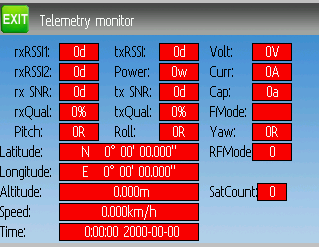
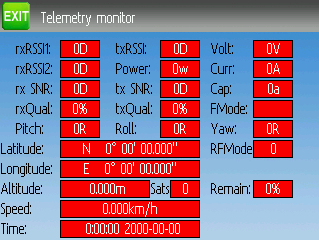
Update CRSF telemetry with newly added values.

Changed region(s): [[0.0, 0.0, 1.0, 1.0]]

diff --git a/source/ch_protocols.rst b/source/ch_protocols.rst
@@ -952,59 +952,17 @@ The serial data is not inverted so an adapter may be needed for some SBUS equipm
 Up to sixteen channels are supported.
 Data rate is 100kbps. Format is 8 data bits, even parity, two stop bits.
 
-Protocol: CRSF (Crossfire)
---------------------------
-The CRSF protocol sends Crossfire protocol serial data on the transmitter's trainer port (tip connector).  The trainer port ring is ground.  The CRSF protocol serial link runs at 400Kbps.
+Protocol: CRSF (Crossfire and ELRS)
+-----------------------------------
+The CRSF protocol sends serial data on the transmitter's trainer port (tip connector).  The trainer port ring is ground.
 On the T8SG PLUS transmitter the serial data also appears on the top pin in the JR module bay.
 To enable telemetry the serial input must be tied to serial output.  For the trainer port tie tip to ring1.
 In the T8SG module bay tie the top and bottom pins together.
 Up to sixteen channels are supported.
 
+The CRSF protocol default serial data rate at 400Kbps.  The data rate can be changed to 1.87 or 2.25 Mbps through a protocol option.  The higher rates are supported by ELRS.
+
 The CRSF configuration menus are supported and replace the normal protocol options.  Click on the protocol name to access the CRSF menus.  The exact menu options displayed will depend on the CRSF components installed.  The menu is controlled by the CRSF device.
-
-Telemetry is not available on limited memory transmitters (7e, F4, F12).
-
-*Telemetry test page*
-
-.. if:: devo8
-
-.. image:: images/devo8/ch_protocols/crsf_telem.png
-   :width: 80%
-
-The CELL voltages are labeled C1-C5.
-
-.. endif::
-.. if:: devo10
-
-The following tables show the layout of the telemetry test page display.
-
-.. cssclass:: telemtable
-
-======== ======= =========
-      Devo10
---------------------------
- RX       TX      Bat 
-======== ======= =========
-RxRSSI   TxRSSI  VBATT
-RSSI2    TxPOWER CURRENT
-RxSNR    TxSNR   CAPACITY
-RxQUAL   TxQUAL  FMODE
-PITCH    ROLL    YAW
-RFMODE
-======== ======= =========
-
-.. endif::
-
-
-Protocol: ELRS (CRSF with ELRS features)
-----------------------------------------
-The ELRS protocol is CRSF running at 1.87Mbps datarate, and with support for the ELRS info message.  Like CRSF the protocol serial data is sent on the transmitter's trainer port (tip connector).  The trainer port ring is ground.
-On the T8SG PLUS transmitter the serial data also appears on the top pin in the JR module bay.
-For proper operation the serial input must be tied to serial output.  For the trainer port tie tip to ring1.
-In the T8SG module bay tie the top and bottom pins together.
-Up to sixteen channels are supported in the mixers, but total channels sent depends on ELRS configuration.
-
-The ELRS configuration menus are supported and replace the normal protocol options.  Click on the protocol name to access the ELRS menus.  The exact menu options displayed will depend on the ELRS components installed.  The menu is controlled by the ELRS device.
 
 The Model Match feature is supported using the Deviation Fixed ID in the model page.  Currently ELRS supports fixed ids 0-63, with all other values interpreted as 255 (model match off).  Changing the ELRS TX "Model Match" option from off to on sets the fixed id (aka model id) in the RX.  See the ELRS website for more information.
 
@@ -1017,8 +975,6 @@ Telemetry is not available on limited memory transmitters (7e, F4, F12).
 .. image:: images/devo8/ch_protocols/crsf_telem.png
    :width: 80%
 
-The CELL voltages are labeled C1-C5.
-
 .. endif::
 .. if:: devo10
 
@@ -1036,8 +992,30 @@ RSSI2    TxPOWER CURRENT
 RxSNR    TxSNR   CAPACITY
 RxQUAL   TxQUAL  FMODE
 PITCH    ROLL    YAW
-RFMODE
+RFMODE   TX_FPS  BATT_REM
+RxRSSI%  TxRSSI% ALTITUDE
+RxRfPwr  TxRfPwr VERTSPD
 ======== ======= =========
+
+.. cssclass:: telemtable
+
+====  ==================
+   Unit indicators
+------------------------
+Char  Meaning
+====  ==================
+ D    dB
+ d    dBm
+ w    milliwatt
+ V    Volts
+ A    Amps
+ a    milliamp-hour (mAH)
+ R    radians
+ m    meters
+ s    meters per second
+ H    Hertz
+ %    percentage
+====  ==================
 
 .. endif::
 
